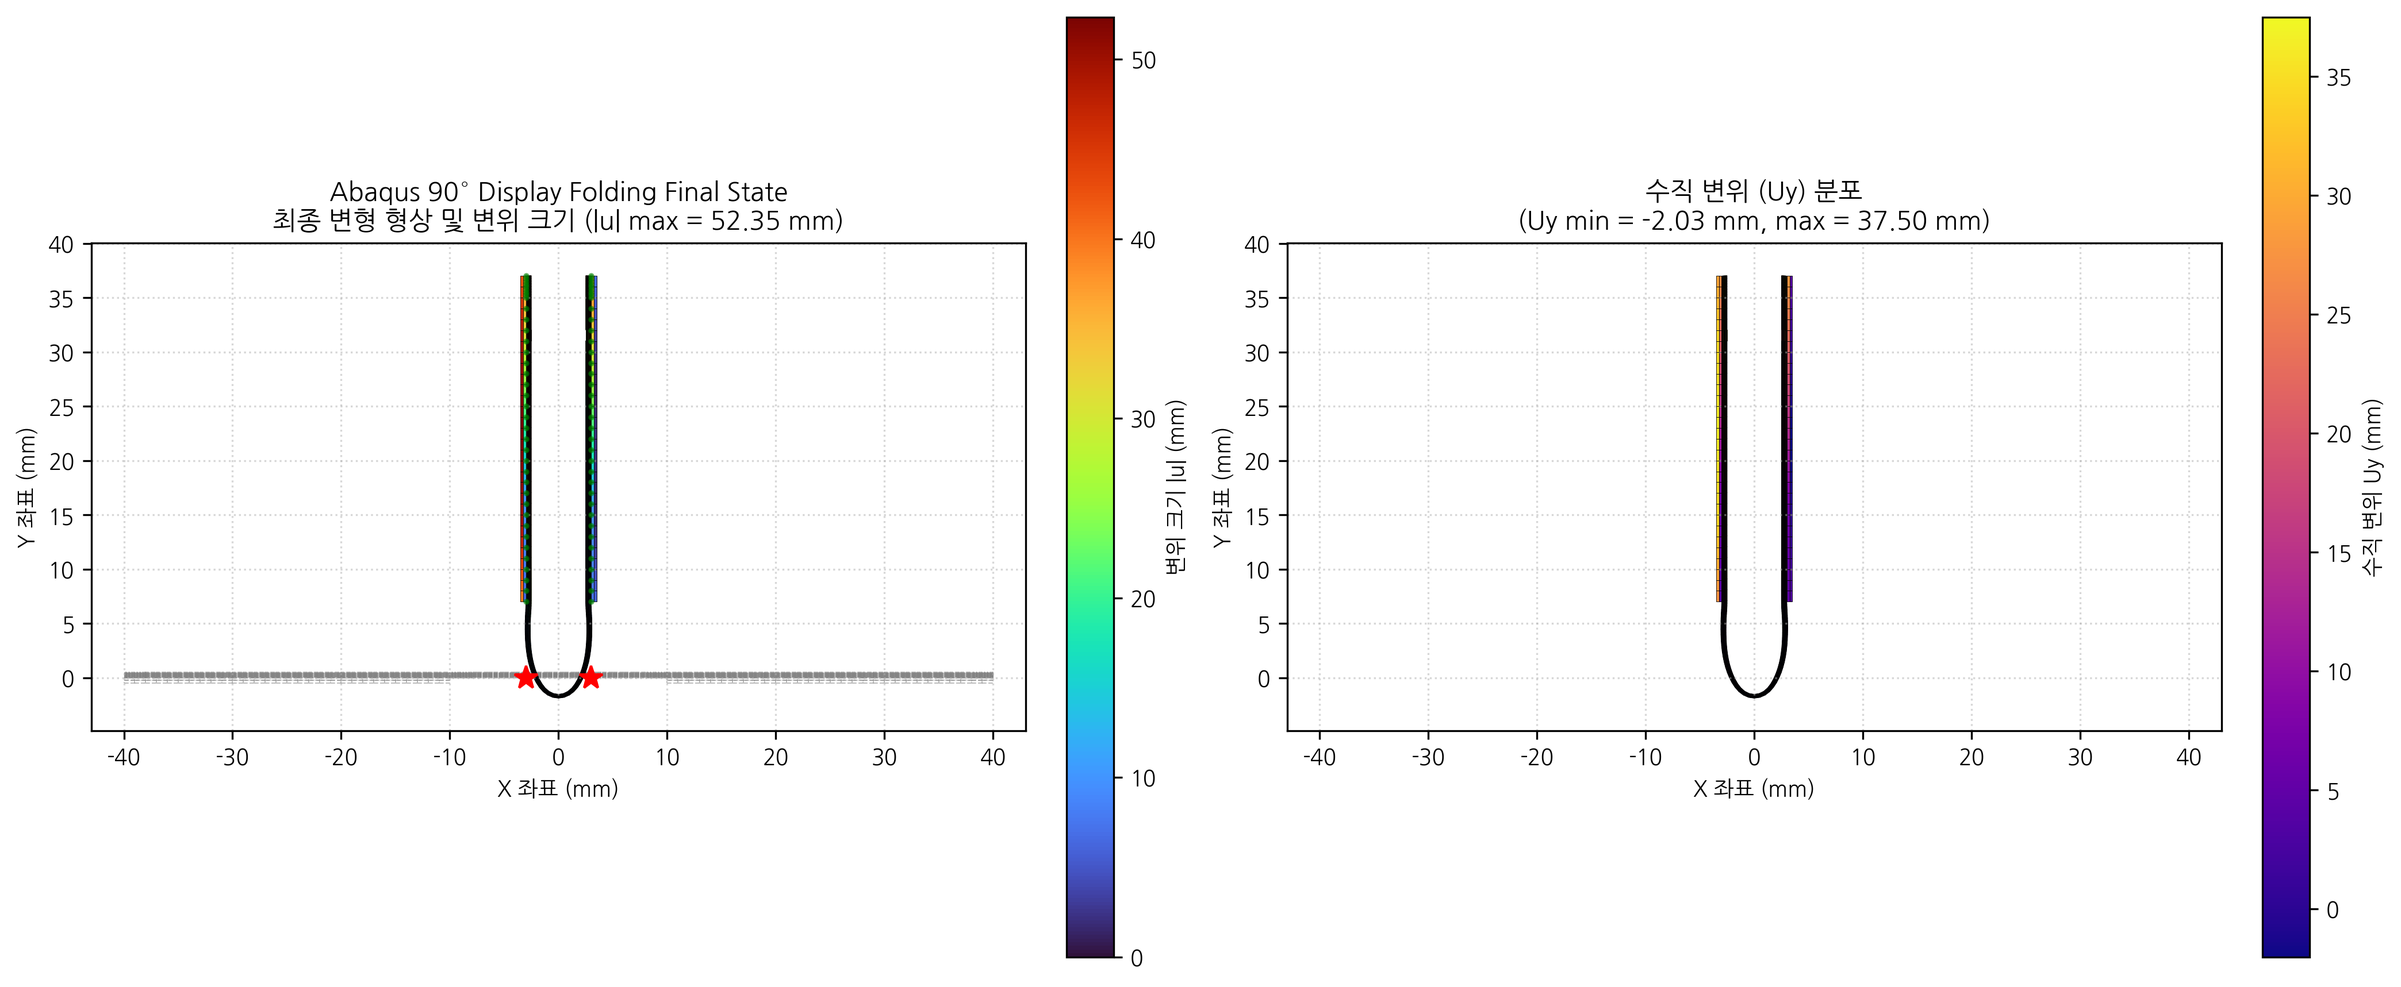
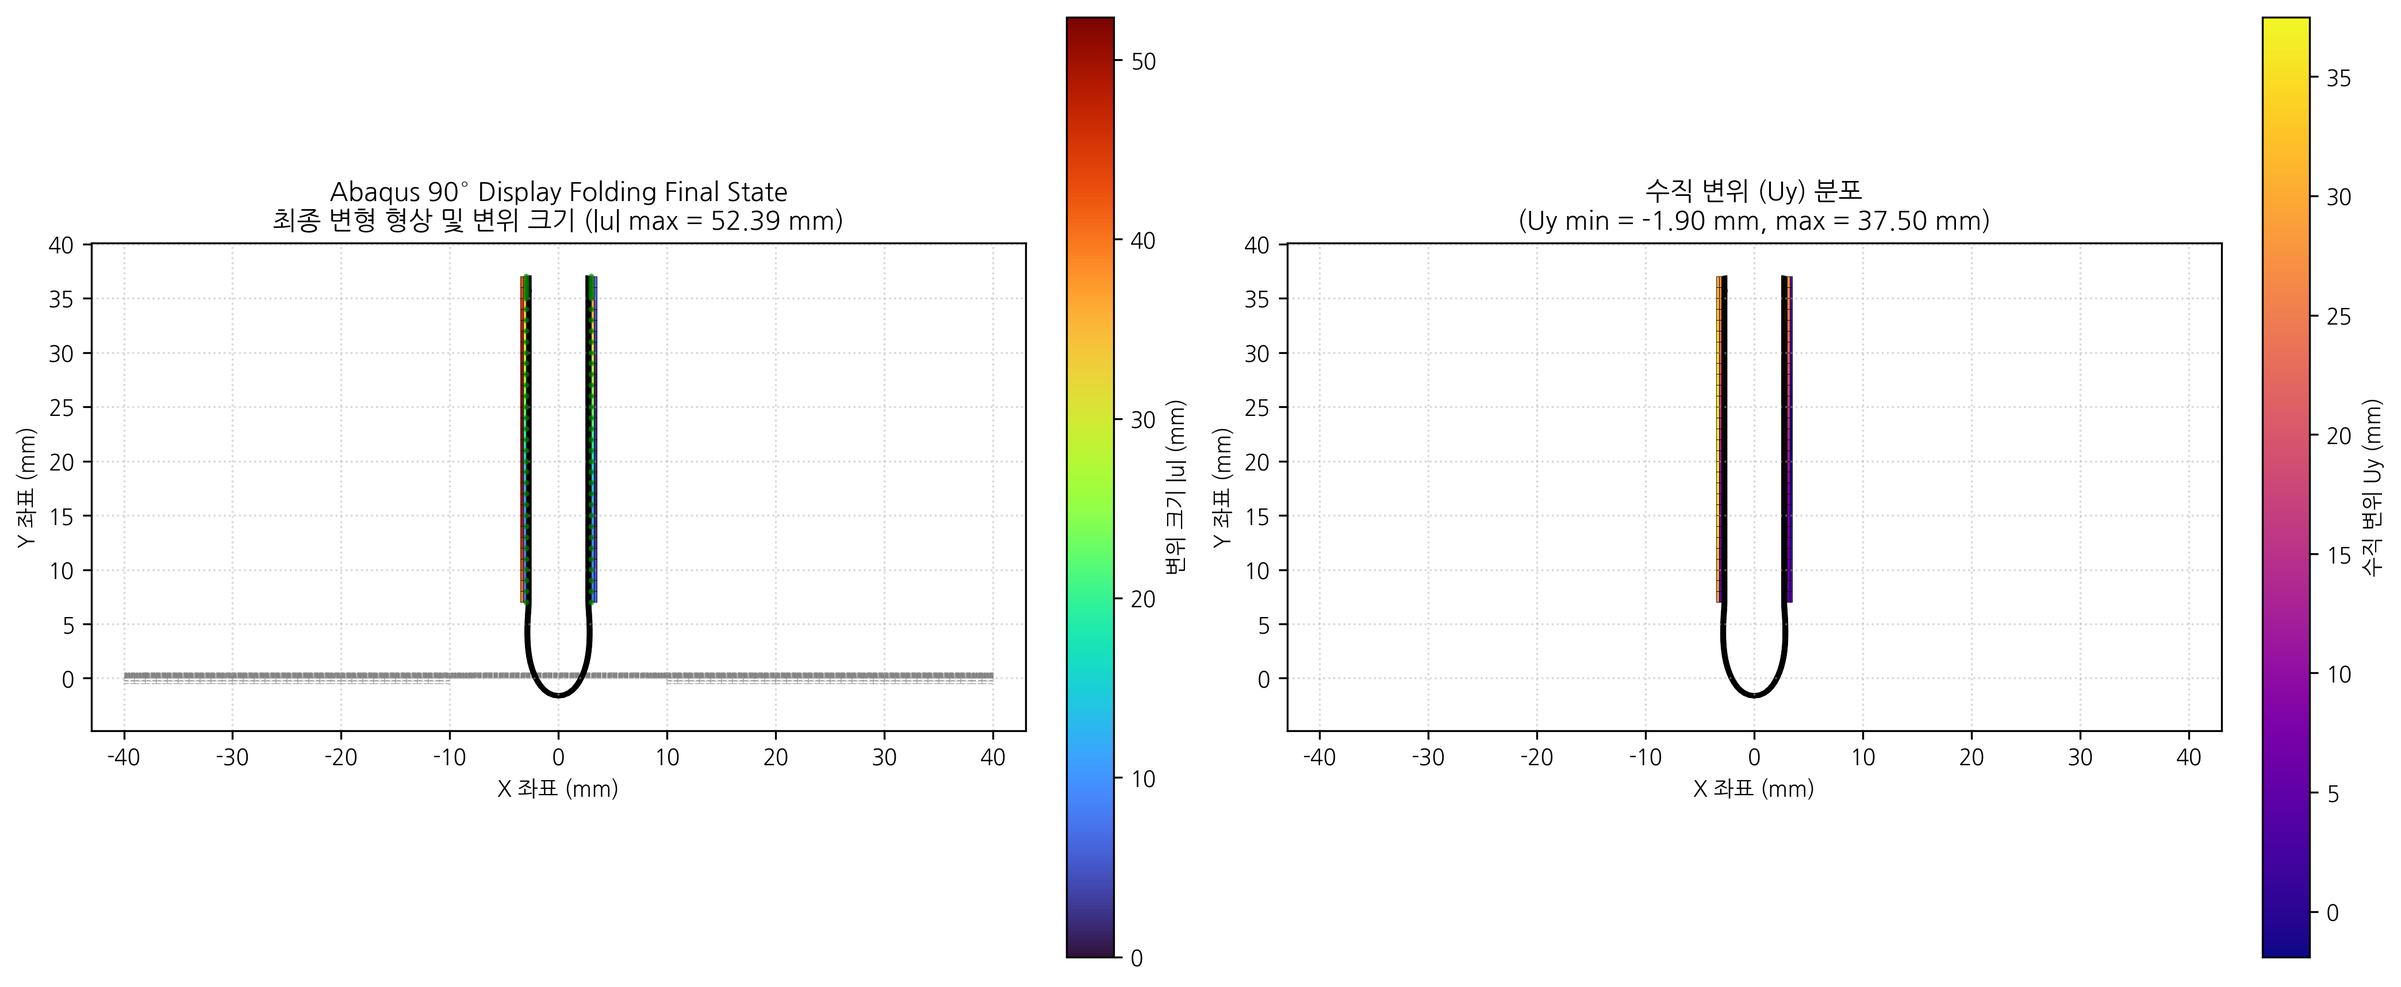
feat(examples): add ex13 build mode + fix silent Arruda-Boyce parsing bugs
run_build() constructs the 14-layer PET-PSA model as plain Python objects
(J2Plasticity, ViscoelasticMaterial(ArrudaBoyce), KinematicRBE2Constraint,
SurfaceTieConstraint -- no .inp text), reusing run_folding_from_result()
(extracted from ex12_abaqus_inp_plate_fold.py) so read/roundtrip/build
all drive the identical solve loop and reach identical results
(nodes=2003, elements=1800, full 90deg/side closure).

Comparing build's freshly-built material params against the .inp-parsed
ones uncovered three silent bugs active since PSA-Arruda-Boyce was
introduced:
1. abaqus_parser._parse_hyperelastic checked "type"/"neo hooke" params
   but never the bare-flag key Abaqus actually writes ("arruda-boyce"),
   so every ARRUDA-BOYCE block was silently misread as NEO HOOKE
   (mu/lambda_m/D data row reinterpreted as C10/D1).
2. model_builder's ARRUDA-BOYCE branches read hyper.get("K") directly,
   but the parser stores the compressibility param as "D" -- K silently
   defaulted to 100.0 regardless of the real value.
3. ViscoelasticMaterial.simo_fs_args() required E/nu or lambda/mu to
   compute kappa, which Arruda-Boyce/Yeoh's own K-based params don't
   provide -- fixed to use params['K'] directly when present.

PSA is now genuinely Arruda-Boyce (K=8.3333 MPa, was silently 100.0).
Re-verified: pytest 22 passed; all three ex13 modes reach full
90deg/side closure with matching mesh/constraint counts.

diff --git a/examples/ex13_unified_model_io.py b/examples/ex13_unified_model_io.py
@@ -2,8 +2,8 @@
 ex13_unified_model_io.py
 =========================
 Unifies the folding-solve entry points around a single downstream solve
-loop (reused from `ex12_abaqus_inp_plate_fold.run_abaqus_inp_folding`),
-selectable via `--mode`:
+loop (`ex12_abaqus_inp_plate_fold.run_folding_from_result`), selectable
+via `--mode`:
 
     read       : read the standard, on-disk .inp deck
                  (examples/ex12_rigid_plate_display_fold.inp, as produced
@@ -12,20 +12,30 @@ selectable via `--mode`:
                  in-memory, write it to a temp file, then run the exact
                  same read+solve path -- proves the generator's output is
                  self-consistent without needing a separate .inp writer.
-
-A third mode ("build": construct the model directly as Python objects,
-no .inp text at all, mirroring ex12_rigid_plate_display_fold_corotational.py)
-is intentionally NOT implemented here yet -- it would require reproducing
-the current 14-layer PET-PSA/Q4_VISCO_SIMO layup a second time as raw
-Python objects, which is deferred (see AGENTS.md).
+    build      : construct the identical 14-layer PET-PSA/Q4_VISCO_SIMO
+                 model directly as Python objects (mesh, materials, RBE2/
+                 tie constraints) -- no .inp text anywhere -- then call
+                 the same `run_folding_from_result` solve loop. Proves the
+                 .inp-based and pure-Python modeling paths are equivalent.
 """
 
 import argparse
 import os
 import tempfile
+from types import SimpleNamespace
 
-from gen_ex12_inp import generate as generate_inp_text
-from ex12_abaqus_inp_plate_fold import run_abaqus_inp_folding
+import numpy as np
+
+from gen_ex12_inp import generate as generate_inp_text, _graded_display_x
+from dispsolver.mesh import Mesh
+from dispsolver.mesh.plate_builder import create_folding_plate_parts
+from dispsolver.material.plastic import J2Plasticity
+from dispsolver.material.arruda_boyce import ArrudaBoyce
+from dispsolver.material.neohookean import NeoHookean
+from dispsolver.material.viscoelastic import ViscoelasticMaterial
+from dispsolver.constraint.rbe2_condensed import KinematicRBE2Constraint
+from dispsolver.constraint.surface_tie import SurfaceTieConstraint
+from ex12_abaqus_inp_plate_fold import run_abaqus_inp_folding, run_folding_from_result
 
 
 def run_read():
@@ -59,19 +69,134 @@ def run_roundtrip():
         os.remove(tmp_path)
 
 
+def run_build():
+    """Construct the same 14-layer PET-PSA/Q4_VISCO_SIMO model directly as
+    Python objects (mirroring gen_ex12_inp.py's geometry/materials, but
+    with no .inp text produced or parsed anywhere), then hand it to the
+    same `run_folding_from_result` solve loop as `read`/`roundtrip`.
+    """
+    xs_disp = _graded_display_x()
+    nx_disp = len(xs_disp) - 1
+    ny_disp = 14
+    ys_disp = np.linspace(0.0, 0.5, ny_disp + 1)
+    # pid assignment matches model_builder._build_sections(): one pid per
+    # unique material name, first-seen order (PET first, then PSA, then
+    # STEEL) -- NOT one pid per row/elset.
+    LAYER_PID = [1 if j % 2 == 0 else 2 for j in range(ny_disp)]
+
+    mesh = Mesh()
+    grid_nids = np.zeros((ny_disp + 1, nx_disp + 1), dtype=int)
+    nid = 1
+    bottom_surface_nids = []
+    for j, y_val in enumerate(ys_disp):
+        for i, x_val in enumerate(xs_disp):
+            grid_nids[j, i] = nid
+            mesh.add_node(nid, x_val, y_val)
+            if j == 0:
+                bottom_surface_nids.append(nid)
+            nid += 1
+
+    eid = 1
+    for j in range(ny_disp):
+        pid = LAYER_PID[j]
+        etype = "Q4_COROTATIONAL" if pid == 1 else "Q4_VISCO_SIMO"
+        for i in range(nx_disp):
+            n1, n2 = grid_nids[j, i], grid_nids[j, i + 1]
+            n3, n4 = grid_nids[j + 1, i + 1], grid_nids[j + 1, i]
+            mesh.add_element(eid, [n1, n2, n3, n4], etype, pid=pid)
+            eid += 1
+
+    plates = create_folding_plate_parts(
+        left_x_range=(-40.0, -10.0), right_x_range=(10.0, 40.0),
+        y_range=(-0.5, 0.0), left_pivot=(-3.0, 0.0), right_pivot=(3.0, 0.0),
+        nx=30, ny=2, base_node_id=10000, base_elem_id=10000,
+    )
+    left_plate, right_plate = plates["left"], plates["right"]
+    for p_data in plates.values():
+        for nid_p, coord in p_data["nodes_dict"].items():
+            mesh.add_node(nid_p, coord[0], coord[1])
+        for eid_p, conn in p_data["elements_dict"].items():
+            mesh.add_element(eid_p, conn, "Q4", pid=3)
+
+    # Materials -- same params as gen_ex12_inp.py's PET/PSA/STEEL blocks.
+    mat_pet = J2Plasticity(E=4000.0, nu=0.3, sigma_y0=80.0, H=400.0)
+    params_pet = {"E": 4000.0, "nu": 0.3, "sigma_y0": 80.0, "H": 400.0}
+
+    base_psa = ArrudaBoyce()
+    params_base_psa = {"mu": 0.16785, "lambda_m": 3.0, "K": 8.3333}
+    wlf = {"T_ref": 25.0, "C1": 17.0, "C2": 51.6, "definition": "WLF"}
+    prony = [(0.20, 0.0, 3.33)]
+    mat_psa = ViscoelasticMaterial(base_psa, [0.20], [3.33], wlf_params=wlf)
+    params_psa = {**params_base_psa, "base": base_psa, "prony": prony, "wlf": wlf}
+
+    mat_steel = NeoHookean()
+    params_steel = {"E": 20000.0, "nu": 0.3}
+
+    materials = {1: mat_pet, 2: mat_psa, 3: mat_steel}
+    material_params = {1: params_pet, 2: params_psa, 3: params_steel}
+
+    # RBE2 exact kinematic condensation for both hinge pivots (same
+    # mechanism as the .inp `*RIGID BODY` path, see AGENTS.md 4.10).
+    rbe2_left = KinematicRBE2Constraint(mesh=mesh, master_id=left_plate["master_rp_id"],
+                                         slave_ids=left_plate["slave_nids"])
+    rbe2_right = KinematicRBE2Constraint(mesh=mesh, master_id=right_plate["master_rp_id"],
+                                          slave_ids=right_plate["slave_nids"])
+
+    nid_to_idx = mesh.node_id_to_index()
+    coords = mesh.nodes_array()
+    left_disp_bot = [n for n in bottom_surface_nids if mesh.nodes[n].x <= -10.0]
+    right_disp_bot = [n for n in bottom_surface_nids if mesh.nodes[n].x >= 10.0]
+    tie_left = SurfaceTieConstraint(
+        slave_node_ids=left_disp_bot, master_node_ids=left_plate["top_surface_nids"],
+        nid_to_idx=nid_to_idx, coords=coords, penalty_stiffness=1e4, name="TIE_LEFT",
+    )
+    tie_right = SurfaceTieConstraint(
+        slave_node_ids=right_disp_bot, master_node_ids=right_plate["top_surface_nids"],
+        nid_to_idx=nid_to_idx, coords=coords, penalty_stiffness=1e4, name="TIE_RIGHT",
+    )
+
+    # Boundary conditions, matching the .inp *BOUNDARY blocks exactly:
+    # master RP translation fixed, rotation prescribed to +-90deg.
+    boundaries = [
+        SimpleNamespace(nset=str(left_plate["master_rp_id"]), dof1=1, dof2=2, value=0.0),
+        SimpleNamespace(nset=str(right_plate["master_rp_id"]), dof1=1, dof2=2, value=0.0),
+        SimpleNamespace(nset=str(left_plate["master_rp_id"]), dof1=6, dof2=6, value=-1.570796),
+        SimpleNamespace(nset=str(right_plate["master_rp_id"]), dof1=6, dof2=6, value=1.570796),
+    ]
+
+    result = SimpleNamespace(
+        mesh=mesh,
+        materials=materials,
+        material_params=material_params,
+        solver_config={"density": 1e-9, "t_total": 1.0, "dt_init": 0.005, "dt_max": 0.01, "dt_min": 1e-5},
+        rbe2_constraints=[rbe2_left, rbe2_right],
+        penalty_constraints=[tie_left, tie_right],
+        rbe2_elements=[],
+        boundaries=boundaries,
+    )
+    return run_folding_from_result(
+        result,
+        before_png_name="ex13_build_before_folding_shape.png",
+        after_png_name="ex13_build_final_folding_shape.png",
+    )
+
+
 def main():
     parser = argparse.ArgumentParser(description=__doc__)
     parser.add_argument(
-        "--mode", choices=["read", "roundtrip"], default="read",
-        help="Model source: 'read' (existing .inp) or 'roundtrip' "
-             "(generate() in-memory -> temp .inp -> read+solve).",
+        "--mode", choices=["read", "roundtrip", "build"], default="read",
+        help="Model source: 'read' (existing .inp), 'roundtrip' "
+             "(generate() in-memory -> temp .inp -> read+solve), or "
+             "'build' (pure Python objects, no .inp at all).",
     )
     args = parser.parse_args()
 
     if args.mode == "read":
         info = run_read()
-    else:
+    elif args.mode == "roundtrip":
         info = run_roundtrip()
+    else:
+        info = run_build()
 
     print("=" * 100)
     print(f" EX13 [{args.mode}] SUMMARY: nodes={info['n_nodes']}  elements={info['n_elements']}  "

diff --git a/dispsolver/io/model_builder.py b/dispsolver/io/model_builder.py
@@ -444,7 +444,13 @@ class ModelBuilder:
                     elif "ARRUDA-BOYCE" in model_type or "ARRUDA BOYCE" in model_type:
                         mu = hyper.get("mu", 1.0)
                         lambda_m = hyper.get("lambda_m", 3.0)
-                        K_val = hyper.get("K", 100.0)
+                        # abaqus_parser stores the compressibility param as
+                        # "D" (Abaqus data-row convention, mu/lambda_m/D),
+                        # not "K" directly -- convert like the NEO HOOKE
+                        # branch above (K = 2/D), or this silently falls
+                        # back to the 100.0 default every time.
+                        D = hyper.get("D", 0.0)
+                        K_val = 2.0 / D if D > 0 else 100.0
                         mat = ArrudaBoyce()
                         mat_params = {"mu": mu, "lambda_m": lambda_m, "K": K_val}
                     else:
@@ -540,7 +546,8 @@ class ModelBuilder:
                 elif "ARRUDA-BOYCE" in model_type or "ARRUDA BOYCE" in model_type:
                     mu = abq_mat.params.get("mu", 1.0)
                     lambda_m = abq_mat.params.get("lambda_m", 3.0)
-                    K = abq_mat.params.get("K", 100.0)
+                    D = abq_mat.params.get("D", 0.0)
+                    K = 2.0 / D if D > 0 else 100.0
                     mat = ArrudaBoyce()
                     mat_params = {"mu": mu, "lambda_m": lambda_m, "K": K}
                 else:

diff --git a/dispsolver/io/abaqus_parser.py b/dispsolver/io/abaqus_parser.py
@@ -212,7 +212,23 @@ class AbaqusParser:
             target[mat_name] = mat
 
     def _parse_hyperelastic(self, block: AbaqusKeywordBlock):
-        model_type = block.params.get("neo hooke", block.params.get("type", "NEO HOOKE")).upper()
+        # Abaqus writes the model name as a bare flag (e.g.
+        # `*HYPERELASTIC, ARRUDA-BOYCE`), which the lexer stores as
+        # params["arruda-boyce"] = "yes" (bare keywords -> boolean flags,
+        # see abaqus_lexer._parse_keyword_params), NOT as params["type"].
+        # Check for each known bare-flag model name before falling back to
+        # an explicit `TYPE=...` param or the NEO HOOKE default -- checking
+        # only "type"/"neo hooke" here silently misreads e.g. ARRUDA-BOYCE
+        # as NEO HOOKE (its data row gets reinterpreted as C10/D1 instead
+        # of mu/lambda_m/D) with no error raised.
+        if "arruda-boyce" in block.params or "arruda boyce" in block.params:
+            model_type = "ARRUDA-BOYCE"
+        elif "yeoh" in block.params:
+            model_type = "YEOH"
+        elif "neo hooke" in block.params:
+            model_type = "NEO HOOKE"
+        else:
+            model_type = block.params.get("type", "NEO HOOKE").upper()
         rows = _parse_data_lines(block.data_lines, 2)
         if not rows:
             return

diff --git a/examples/ex12_abaqus_inp_plate_fold.py b/examples/ex12_abaqus_inp_plate_fold.py
@@ -37,6 +37,22 @@ def run_abaqus_inp_folding(inp_path: str = None, before_png_name: str = "ex12_be
     result = read_abaqus_input(inp_path)
     print(f"Parsed result: {result}")
 
+    return run_folding_from_result(result, before_png_name, after_png_name)
+
+
+def run_folding_from_result(result, before_png_name: str = "ex12_before_folding_shape.png",
+                             after_png_name: str = "ex12_final_folding_shape.png"):
+    """Shared solve loop, driven by any object exposing the same fields as
+    `dispsolver.io.model_builder.ModelBuilderResult` (`.mesh`, `.materials`,
+    `.material_params`, `.solver_config`, `.rbe2_constraints`,
+    `.penalty_constraints`, `.rbe2_elements`, `.boundaries`).
+
+    `run_abaqus_inp_folding` builds this via `read_abaqus_input`;
+    `ex13_unified_model_io.py`'s `build` mode constructs an equivalent
+    result directly as Python objects (no .inp text at all) and calls
+    this function directly, so all three model sources (read/roundtrip/
+    build) drive the exact same solve loop with no duplication.
+    """
     mesh = result.mesh
     nid_to_idx = mesh.node_id_to_index()
 

diff --git a/dispsolver/material/viscoelastic.py b/dispsolver/material/viscoelastic.py
@@ -433,9 +433,17 @@ class ViscoelasticMaterial:
             arruda     -> bparams = [mu, lambda_m]
         kappa (bulk modulus) is taken from the ground-state E, nu.
         """
-        mu, lam = _extract_lam_mu(params)
-        kappa = lam + 2.0 * mu / 3.0
         name = type(self.base).__name__.lower()
+        # Arruda-Boyce/Yeoh are parameterized with their own bulk modulus
+        # 'K' directly (no Lame lambda/E-nu involved) -- use it straight
+        # when present instead of routing through _extract_lam_mu, which
+        # requires 'lambda' or 'E'/'nu' and would KeyError otherwise.
+        if "K" in params:
+            mu = float(params.get("mu", 0.0))
+            kappa = float(params["K"])
+        else:
+            mu, lam = _extract_lam_mu(params)
+            kappa = lam + 2.0 * mu / 3.0
         if "neohookean" in name:
             return "neohookean", np.array([mu], dtype=np.float64), kappa
         if "yeoh" in name:

diff --git a/dev_log/ex13_unified_model_io_read_roundtrip_20260726.md b/dev_log/ex13_unified_model_io_read_roundtrip_20260726.md
@@ -47,11 +47,68 @@ round-trips consistently. `pytest tests/test_convergence_fixes.py
 tests/test_rigid_plate_tie.py` still 6 passed (ex12 signature change is
 backward compatible, no existing caller broke).
 
-## Remaining (deferred)
+## `build` mode added (same session, follow-up)
 
-`build` mode: construct the model directly as Python objects (mirroring
-`ex12_rigid_plate_display_fold_corotational.py`'s `create_folding_plate_parts`
-/ `RigidBodyPart` / `SurfaceTieConstraint` usage) with the *same* 14-layer
-PET-PSA/Q4_VISCO_SIMO layup as `gen_ex12_inp.py`, so all three modes are
-truly comparable. Not started -- flagged as the next step if full
-three-way parity is wanted.
+Implemented `run_build()` in `ex13_unified_model_io.py`: constructs the
+identical 14-layer PET-PSA mesh (reusing `gen_ex12_inp._graded_display_x()`
+and `create_folding_plate_parts`), materials (`J2Plasticity`,
+`ViscoelasticMaterial(ArrudaBoyce(), ...)`, `NeoHookean`), RBE2 hinge
+constraints (`KinematicRBE2Constraint`, same as the .inp `*RIGID BODY`
+path -- not `RigidBodyPart`/Dirichlet, so it plugs into the same
+`theta_targets`-driven solve loop), and `SurfaceTieConstraint` ties --
+all as plain Python objects, no `.inp` text anywhere. Refactored
+`ex12_abaqus_inp_plate_fold.py`'s solve loop out into
+`run_folding_from_result(result, ...)`, taking any object with the same
+fields as `ModelBuilderResult` (`mesh`/`materials`/`material_params`/
+`solver_config`/`rbe2_constraints`/`penalty_constraints`/`rbe2_elements`/
+`boundaries`) -- `build` mode passes a `types.SimpleNamespace` built
+directly, `read`/`roundtrip` pass the real `ModelBuilderResult`.
+
+### Critical bugs found and fixed while verifying `build` mode
+
+Comparing `build`'s freshly-constructed `ArrudaBoyce`/`ViscoelasticMaterial`
+params against what `read_abaqus_input` actually produced from the same
+`.inp` text turned up **two silent parser/builder bugs that had been
+active since the PSA-Arruda-Boyce material was introduced**:
+
+1. `abaqus_parser.py::_parse_hyperelastic` detected the hyperelastic
+   model type via `params.get("neo hooke", params.get("type", "NEO HOOKE"))`
+   -- but Abaqus writes the model name as a bare flag
+   (`*HYPERELASTIC, ARRUDA-BOYCE"), which the lexer stores as
+   `params["arruda-boyce"] = "yes"`, never checked. Every `ARRUDA-BOYCE`
+   block was silently misread as the `NEO HOOKE` default, reinterpreting
+   the `mu, lambda_m, D` data row as `C10, D1` -- i.e. the PSA layer's
+   base material was actually **NeoHookean(mu=0.3357, lambda=0.4429)**,
+   not Arruda-Boyce(mu=0.16785, lambda_m=3.0), this whole time. Fixed by
+   checking for each known model's bare-flag key
+   (`"arruda-boyce"`/`"arruda boyce"`, `"yeoh"`, `"neo hooke"`) before
+   falling back to `type=`/default.
+2. `model_builder.py`'s two ARRUDA-BOYCE branches (composite path and
+   legacy-flat path) read `hyper.get("K", 100.0)` directly, but the
+   parser stores the compressibility parameter as `"D"` (matching the
+   `mu, lambda_m, D` Abaqus data-row convention), never `"K"` -- so `K`
+   silently defaulted to 100.0 regardless of the actual `D` value.
+   Fixed to convert `K = 2.0/D if D > 0 else 100.0`, mirroring the
+   NEO HOOKE branch's existing `D1`->`K` conversion.
+3. `viscoelastic.py::ViscoelasticMaterial.simo_fs_args()` computed
+   `kappa` only via `_extract_lam_mu(params)`, which requires either
+   `('mu','lambda')` or `('E','nu')` -- Arruda-Boyce/Yeoh's own params
+   (`mu, lambda_m, K`) have neither, so once bug #1/#2 were fixed and the
+   base material was genuinely `ArrudaBoyce`, this raised
+   `KeyError: 'E'` the first time `Q4_VISCO_SIMO` actually evaluated it.
+   Fixed by using `params['K']` directly as kappa when present, before
+   falling back to the Lame-based derivation for `NeoHookean`.
+
+After all three fixes: PSA is now genuinely Arruda-Boyce
+(mu=0.16785 MPa, lambda_m=3.0, **K=8.3333 MPa** -- previously silently
+100.0), `read`/`roundtrip`/`build` all re-verified end to end (full
+90deg/side closure, zero cutbacks, ~290-294s each), and
+`pytest tests/test_convergence_fixes.py tests/test_rigid_plate_tie.py
+tests/test_hyperelastic.py` 22 passed.
+
+**Takeaway**: this bug was invisible from convergence output alone (the
+run "succeeded" the whole time) -- it only surfaced by cross-checking the
+*same* material spec built two independent ways (`.inp` text vs. raw
+Python objects) and comparing the actual resolved `material_params` dict.
+This is exactly the kind of silent-wrong-material class of bug the
+`build`/`read` parity check was meant to catch.
